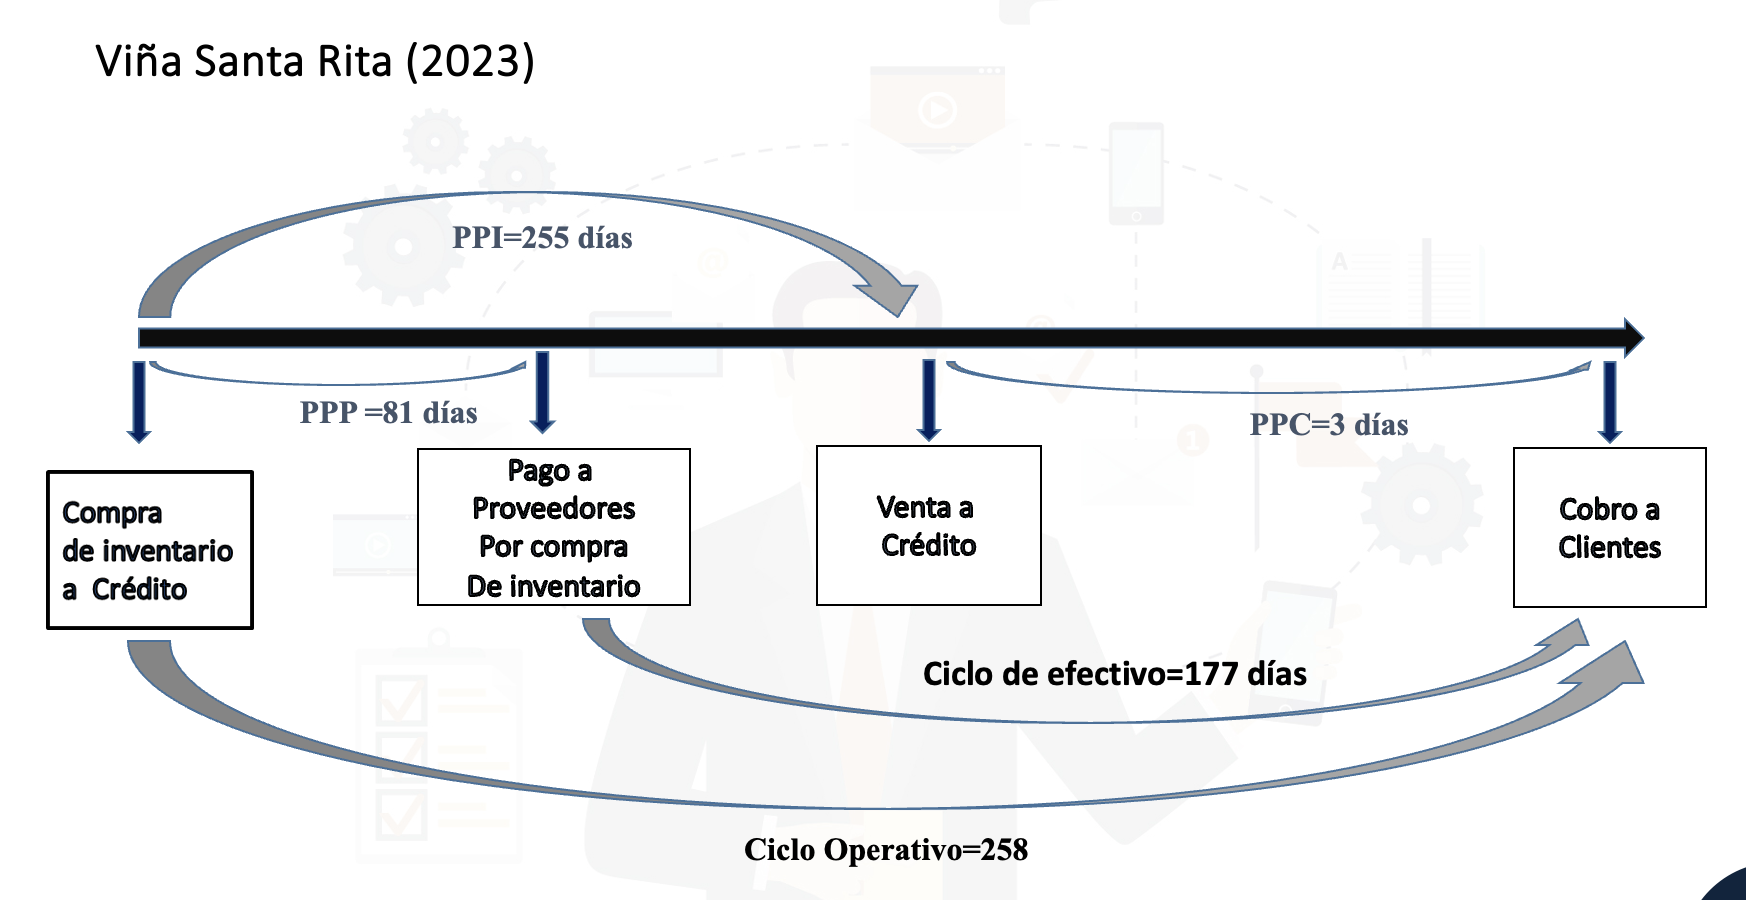
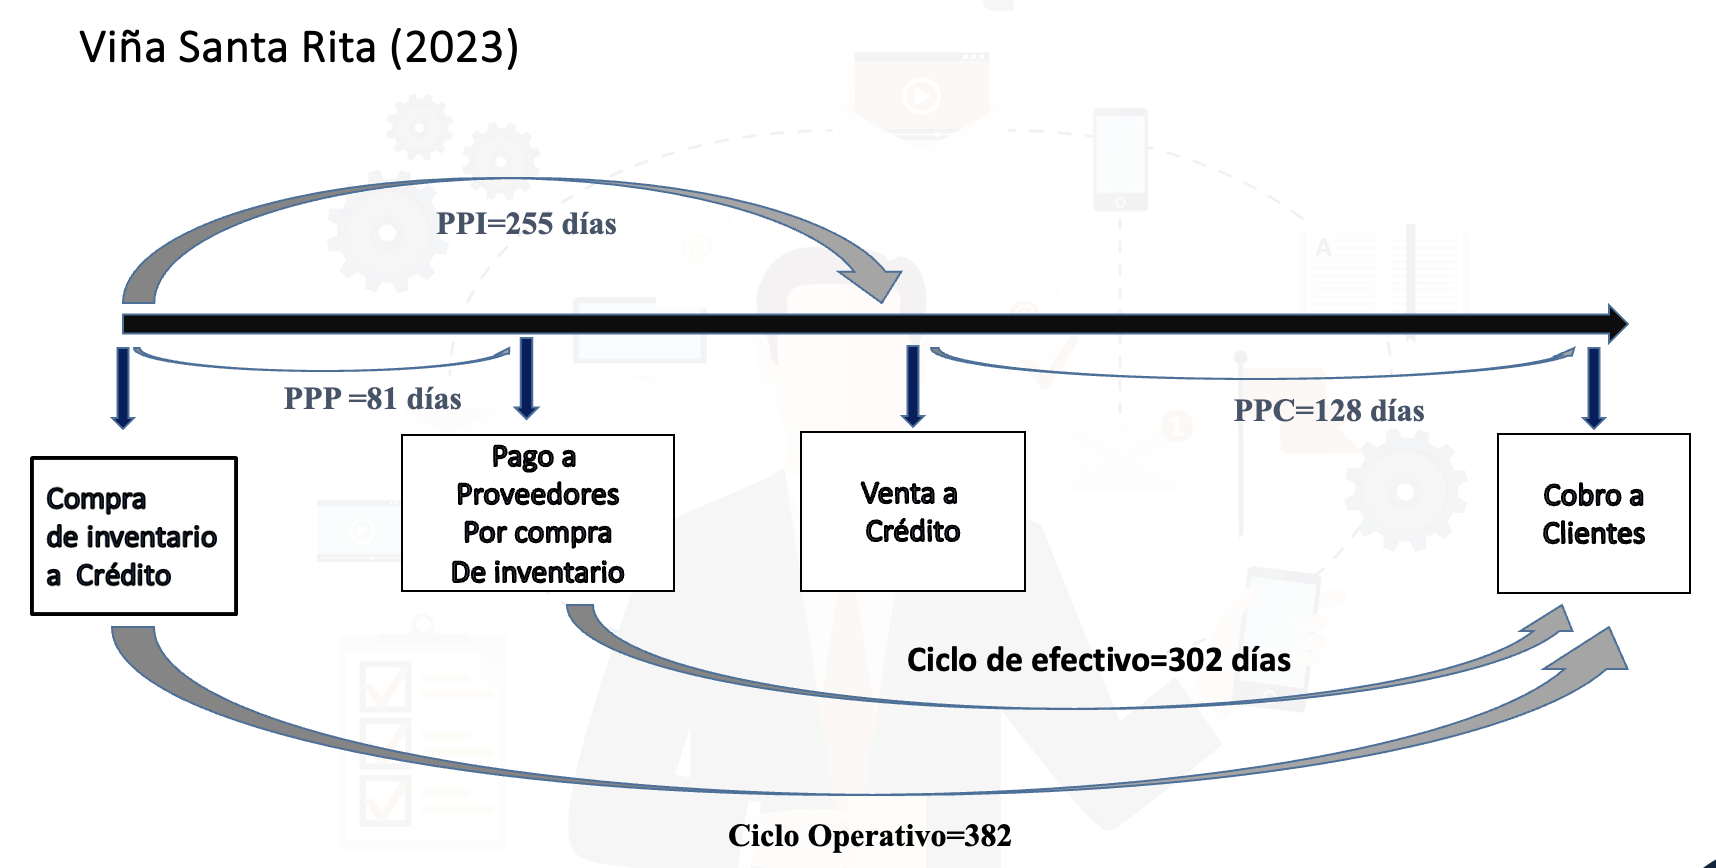
Actualizacion de PPC

diff --git a/index.html b/index.html
@@ -1091,7 +1091,7 @@ PPC = \frac{\text{Cuentas por Cobrar Promedio}}{\text{Ventas Diarias}}
 <p><span class="math display">\[
 \text{Cuentas por Cobrar Promedio} = \frac{\text{Cuentas por Cobrar Iniciales} + \text{Cuentas por Cobrar Finales}}{2}
 \]</span> - Reemplazando: <span class="math display">\[
-\text{Cuentas por Cobrar Promedio} = \frac{$1.365.558.000 + $1.036.294.000}{2} = $1.200.926.000
+\text{Cuentas por Cobrar Promedio} = \frac{$58.253.182.000 + $59.112.524.000}{2} = $58.682.853.000
 \]</span>&nbsp;</p>
 </section>
 <section class="slide level2">
@@ -1115,7 +1115,7 @@ PPC = \frac{\text{Cuentas por Cobrar Promedio}}{\text{Ventas Diarias}}
 PPC = \frac{\text{Cuentas por Cobrar Promedio}}{\text{Ventas Diarias}}
 \]</span></p>
 <p>Reemplazando valores: <span class="math display">\[
-PPC = \frac{1.200.926.000}{455.075.947,22} \approx 2,64  . \text{días}
+PPC = \frac{58.253.182.000}{455.075.947,22} \approx 127,99 , \text{días}
 \]</span></p>
 </section>
 <section class="slide level2">
@@ -1161,13 +1161,13 @@ PPP = \frac{25.081.288.000}{310.548.636,11} \approx 80,77 \, \text{días}
 <h2>Resultados Finales</h2>
 <ul>
 <li><p><strong>Ciclo Operativo</strong>: <span class="math display">\[
-\text{Ciclo Operativo} = PPI + PPC = 254,73 + 2,64 = 257,37 \, \text{días}
+\text{Ciclo Operativo} = PPI + PPC = 254,73 + 127,99 = 382,72 \, \text{días}
 \]</span></p></li>
 <li><p><strong>Ciclo de Efectivo</strong>: <span class="math display">\[
-\text{Ciclo de Efectivo} = PPI + PPC - PPP = 254,73 + 2,64 - 80,77 = 176,60 \, \text{días}
+\text{Ciclo de Efectivo} = Ciclo Operativo - PPP = 382,72 - 80,77 = 301,95 \, \text{días}
 \]</span></p></li>
 </ul>
-<p>Estos resultados muestran que Viña Santa Rita necesita <strong>176,60 días</strong> en promedio para convertir sus recursos en efectivo.</p>
+<p>Estos resultados muestran que Viña Santa Rita necesita <strong>301,95 días</strong> en promedio para convertir sus recursos en efectivo.</p>
 </section>
 <section id="ciclo-operativo-viña-santa-rita" class="slide level2">
 <h2>Ciclo Operativo: Viña Santa Rita</h2>
